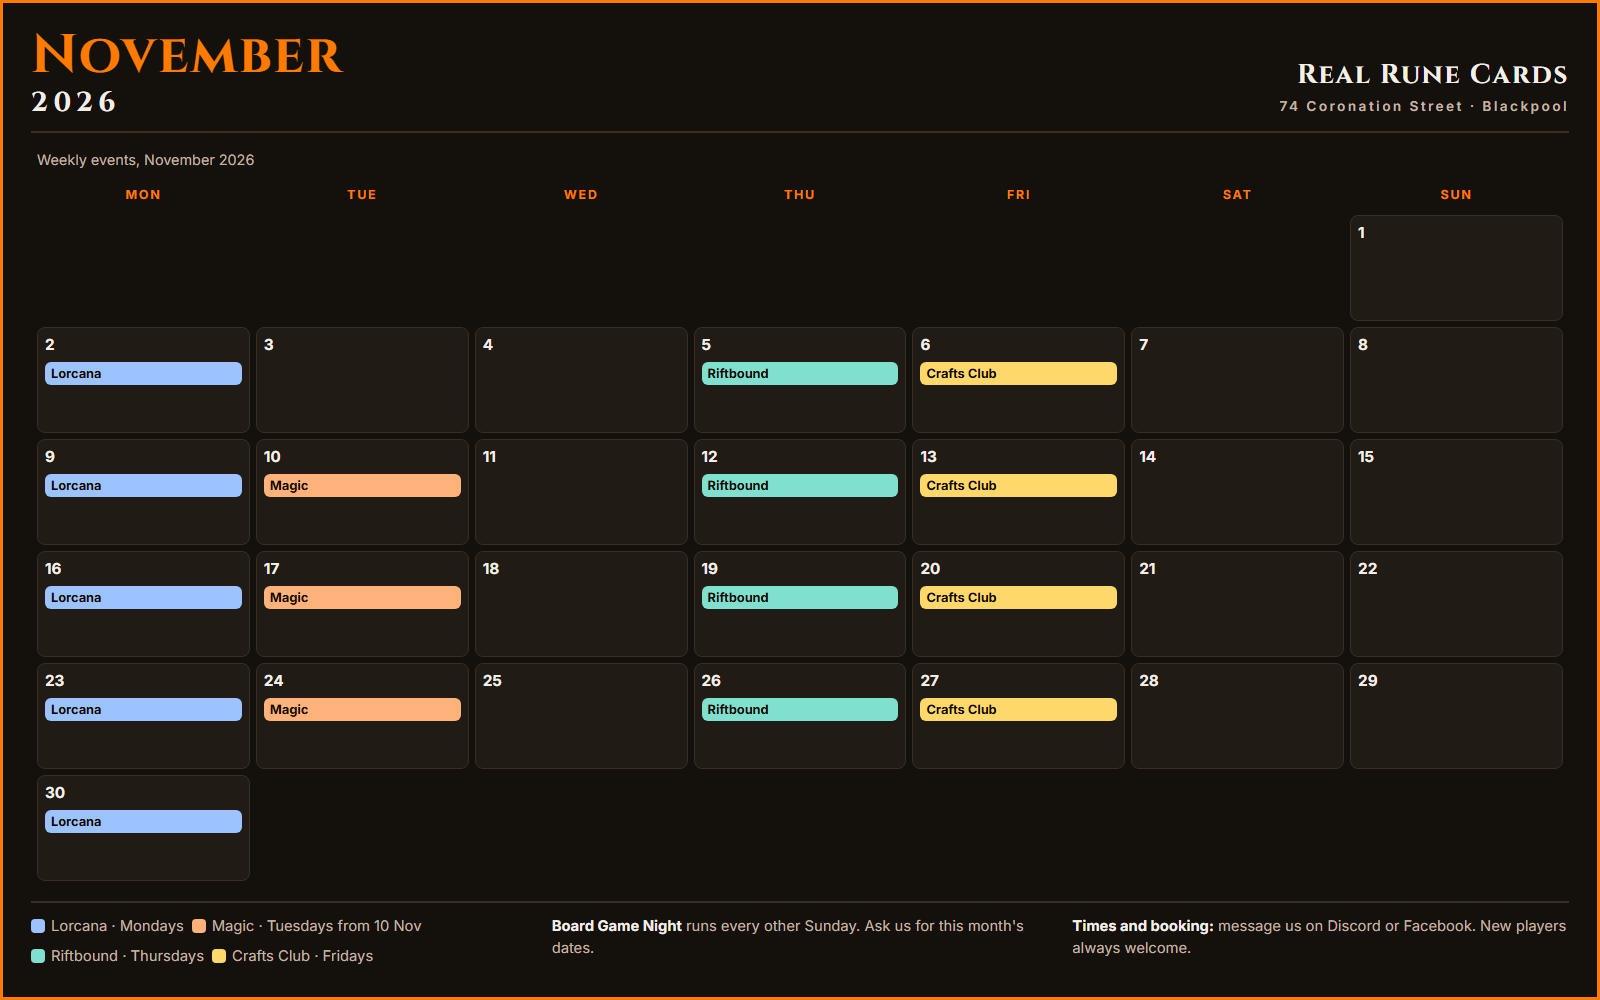
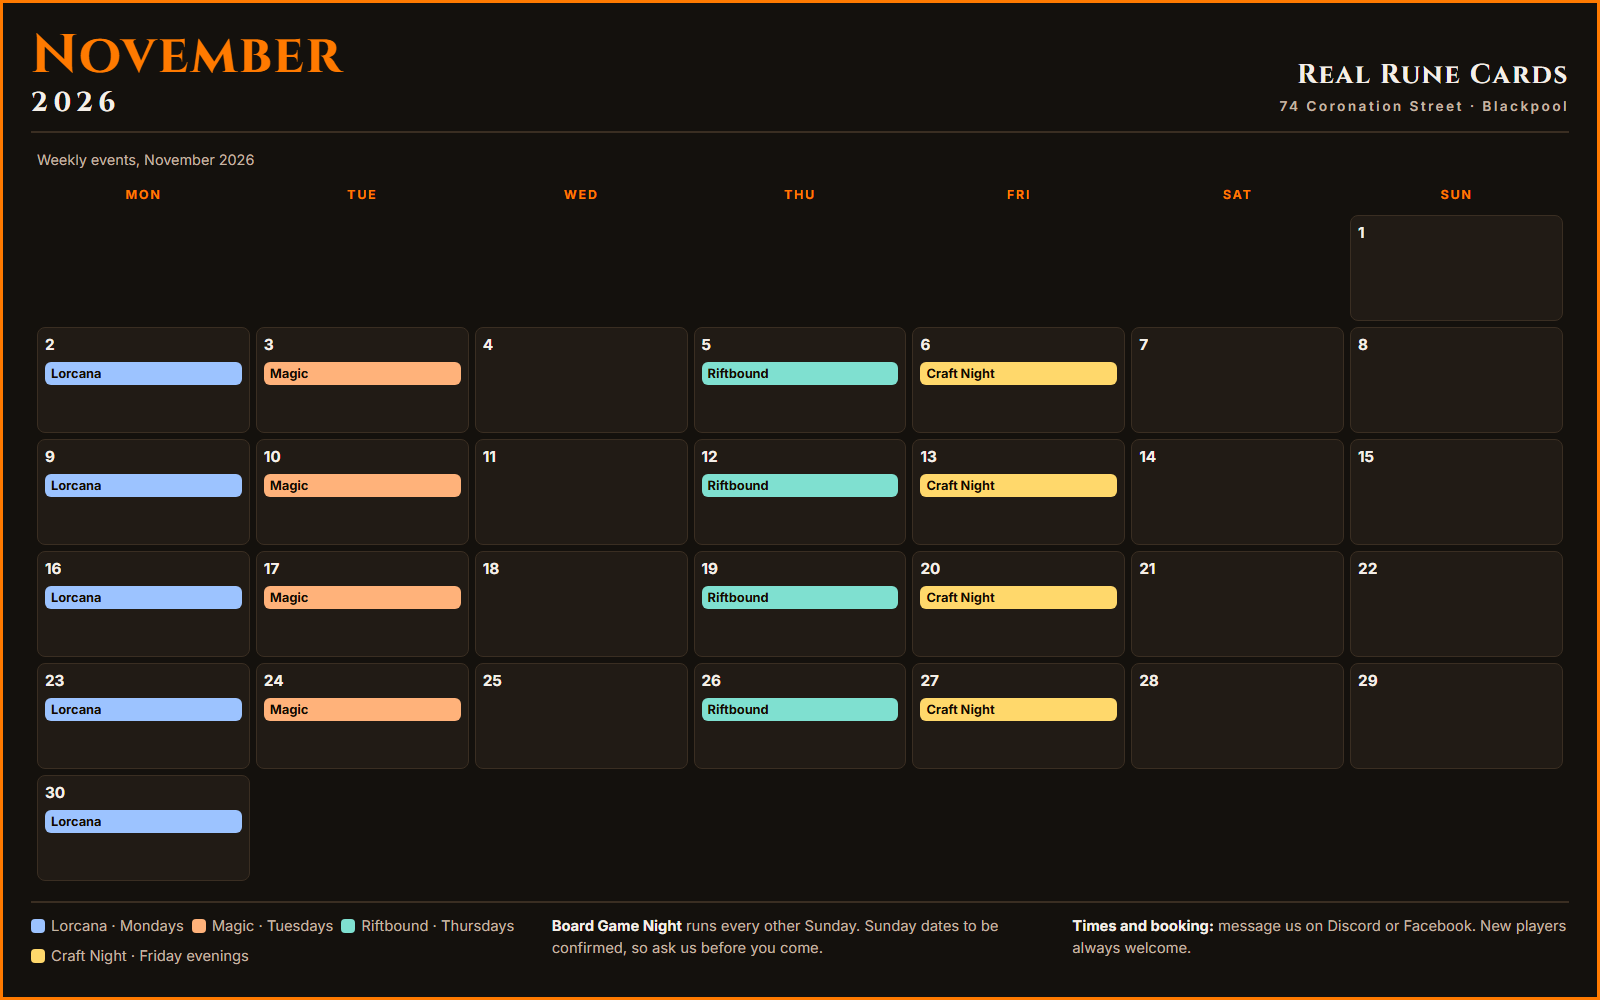
Calendar: apply Cal's confirmed weekly schedule for November 2026
Magic every Tuesday (adds 3 Nov), Craft Night every Friday evening (was Crafts Club), Board Game Night every other Sunday with dates to be confirmed. Updates calendar.png, the text calendar and alt text on Home and Events. No times or prices.

diff --git a/calendar/november-2026.html b/calendar/november-2026.html
@@ -3,8 +3,9 @@
 <head>
 <meta charset="utf-8">
 <meta name="viewport" content="width=device-width, initial-scale=1">
-<!-- Source of calendar.png. To refresh the image, screenshot this page with #poster at 1600x1100.
-     Schedule from shop records (01-real-rune-cards.md, "Weekly events (Nov 2026)").
+<!-- Source of calendar.png. To refresh the image, screenshot this page with #poster at 1600x1000.
+     Schedule confirmed by Cal, 14 Nov 2026: Lorcana every Monday, Magic every Tuesday, Riftbound every Thursday,
+     Craft Night every Friday evening, Board Game Night every other Sunday.
      Left out on purpose because they are not confirmed: event times, prices, and which Sundays Board Game Night falls on. -->
 <link rel="icon" href="../realrunecards-logo.png">
 <title>November 2026 Events Calendar | Real Rune Cards Blackpool</title>
@@ -80,21 +81,21 @@ a:focus-visible{outline:3px solid #ff7a00;outline-offset:3px}
       <thead><tr><th scope="col">Mon</th><th scope="col">Tue</th><th scope="col">Wed</th><th scope="col">Thu</th><th scope="col">Fri</th><th scope="col">Sat</th><th scope="col">Sun</th></tr></thead>
       <tbody>
         <tr><td class="empty"></td><td class="empty"></td><td class="empty"></td><td class="empty"></td><td class="empty"></td><td class="empty"></td><td><span class="d">1</span></td></tr>
-        <tr><td><span class="d">2</span><span class="ev lorcana">Lorcana</span></td><td><span class="d">3</span></td><td><span class="d">4</span></td><td><span class="d">5</span><span class="ev riftbound">Riftbound</span></td><td><span class="d">6</span><span class="ev crafts">Crafts Club</span></td><td><span class="d">7</span></td><td><span class="d">8</span></td></tr>
-        <tr><td><span class="d">9</span><span class="ev lorcana">Lorcana</span></td><td><span class="d">10</span><span class="ev magic">Magic</span></td><td><span class="d">11</span></td><td><span class="d">12</span><span class="ev riftbound">Riftbound</span></td><td><span class="d">13</span><span class="ev crafts">Crafts Club</span></td><td><span class="d">14</span></td><td><span class="d">15</span></td></tr>
-        <tr><td><span class="d">16</span><span class="ev lorcana">Lorcana</span></td><td><span class="d">17</span><span class="ev magic">Magic</span></td><td><span class="d">18</span></td><td><span class="d">19</span><span class="ev riftbound">Riftbound</span></td><td><span class="d">20</span><span class="ev crafts">Crafts Club</span></td><td><span class="d">21</span></td><td><span class="d">22</span></td></tr>
-        <tr><td><span class="d">23</span><span class="ev lorcana">Lorcana</span></td><td><span class="d">24</span><span class="ev magic">Magic</span></td><td><span class="d">25</span></td><td><span class="d">26</span><span class="ev riftbound">Riftbound</span></td><td><span class="d">27</span><span class="ev crafts">Crafts Club</span></td><td><span class="d">28</span></td><td><span class="d">29</span></td></tr>
+        <tr><td><span class="d">2</span><span class="ev lorcana">Lorcana</span></td><td><span class="d">3</span><span class="ev magic">Magic</span></td><td><span class="d">4</span></td><td><span class="d">5</span><span class="ev riftbound">Riftbound</span></td><td><span class="d">6</span><span class="ev crafts">Craft Night</span></td><td><span class="d">7</span></td><td><span class="d">8</span></td></tr>
+        <tr><td><span class="d">9</span><span class="ev lorcana">Lorcana</span></td><td><span class="d">10</span><span class="ev magic">Magic</span></td><td><span class="d">11</span></td><td><span class="d">12</span><span class="ev riftbound">Riftbound</span></td><td><span class="d">13</span><span class="ev crafts">Craft Night</span></td><td><span class="d">14</span></td><td><span class="d">15</span></td></tr>
+        <tr><td><span class="d">16</span><span class="ev lorcana">Lorcana</span></td><td><span class="d">17</span><span class="ev magic">Magic</span></td><td><span class="d">18</span></td><td><span class="d">19</span><span class="ev riftbound">Riftbound</span></td><td><span class="d">20</span><span class="ev crafts">Craft Night</span></td><td><span class="d">21</span></td><td><span class="d">22</span></td></tr>
+        <tr><td><span class="d">23</span><span class="ev lorcana">Lorcana</span></td><td><span class="d">24</span><span class="ev magic">Magic</span></td><td><span class="d">25</span></td><td><span class="d">26</span><span class="ev riftbound">Riftbound</span></td><td><span class="d">27</span><span class="ev crafts">Craft Night</span></td><td><span class="d">28</span></td><td><span class="d">29</span></td></tr>
         <tr><td><span class="d">30</span><span class="ev lorcana">Lorcana</span></td><td class="empty"></td><td class="empty"></td><td class="empty"></td><td class="empty"></td><td class="empty"></td><td class="empty"></td></tr>
       </tbody>
     </table>
     <div class="foot">
       <ul class="key" aria-label="Key">
         <li><i class="lorcana"></i>Lorcana · Mondays</li>
-        <li><i class="magic"></i>Magic · Tuesdays from 10 Nov</li>
+        <li><i class="magic"></i>Magic · Tuesdays</li>
         <li><i class="riftbound"></i>Riftbound · Thursdays</li>
-        <li><i class="crafts"></i>Crafts Club · Fridays</li>
+        <li><i class="crafts"></i>Craft Night · Friday evenings</li>
       </ul>
-      <div><b>Board Game Night</b> runs every other Sunday. Ask us for this month's dates.</div>
+      <div><b>Board Game Night</b> runs every other Sunday. Sunday dates to be confirmed, so ask us before you come.</div>
       <div><b>Times and booking:</b> message us on Discord or Facebook. New players always welcome.</div>
     </div>
   </figure>
@@ -103,10 +104,10 @@ a:focus-visible{outline:3px solid #ff7a00;outline-offset:3px}
     <h2 id="weekly-h">Text version</h2>
     <ul>
       <li><b>Mondays</b> (2, 9, 16, 23 and 30 November): Disney Lorcana</li>
-      <li><b>Tuesdays</b> (10, 17 and 24 November): Magic: The Gathering. No Magic on 3 November.</li>
+      <li><b>Tuesdays</b> (3, 10, 17 and 24 November): Magic: The Gathering</li>
       <li><b>Thursdays</b> (5, 12, 19 and 26 November): Riftbound</li>
-      <li><b>Fridays</b> (6, 13, 20 and 27 November): Crafts Club</li>
-      <li><b>Every other Sunday:</b> Board Game Night. Ask us which Sundays.</li>
+      <li><b>Friday evenings</b> (6, 13, 20 and 27 November): Craft Night</li>
+      <li><b>Every other Sunday:</b> Board Game Night. Sunday dates to be confirmed, so ask us before you come.</li>
     </ul>
     <p>For times, entry fees and booking, message us on <a href="https://discord.gg/Q7mbwSXSdW" target="_blank" rel="noopener">Discord</a> or <a href="https://www.facebook.com/share/g/1YcmRjop4f/" target="_blank" rel="noopener">Facebook</a>.</p>
   </section>

diff --git a/events.html b/events.html
@@ -113,7 +113,7 @@ window.ctcFlush = function(){
     <!-- This shows the same calendar image as your homepage, so updating calendar.png on your site updates this page too. -->
     <figure class="calendar" style="margin:0 0 10px">
       <a href="calendar.png" target="_blank" rel="noopener" data-track="Calendar opened">
-        <img src="calendar.png" alt="November 2026 event calendar: Lorcana on Mondays, Magic on Tuesdays from 10 November, Riftbound on Thursdays, Crafts Club on Fridays, and Board Game Night every other Sunday."
+        <img src="calendar.png" alt="November 2026 event calendar: Lorcana every Monday, Magic every Tuesday, Riftbound every Thursday, Craft Night every Friday evening, and Board Game Night every other Sunday (dates to be confirmed)."
              onerror="this.parentNode.outerHTML='<div class=&quot;fallback&quot;>The calendar isn\'t loading right now. Ask us on Discord or Facebook for this month\'s dates.</div>'">
       </a>
     </figure>

diff --git a/index.html b/index.html
@@ -204,7 +204,7 @@ href="news/index.html">
 </div>
 <!-- Event Days Section -->
 <h2 class="event-title">Event Days</h2>
-<img src="calendar.png" class="calendar-image" alt="November 2026 event calendar: Lorcana on Mondays, Magic on Tuesdays from 10 November, Riftbound on Thursdays, Crafts Club on Fridays, and Board Game Night every other Sunday.">
+<img src="calendar.png" class="calendar-image" alt="November 2026 event calendar: Lorcana every Monday, Magic every Tuesday, Riftbound every Thursday, Craft Night every Friday evening, and Board Game Night every other Sunday (dates to be confirmed).">
 <br>
 <a class="event-link" href="calendar/november-2026.html">Text version of the November calendar</a>
 <br>
